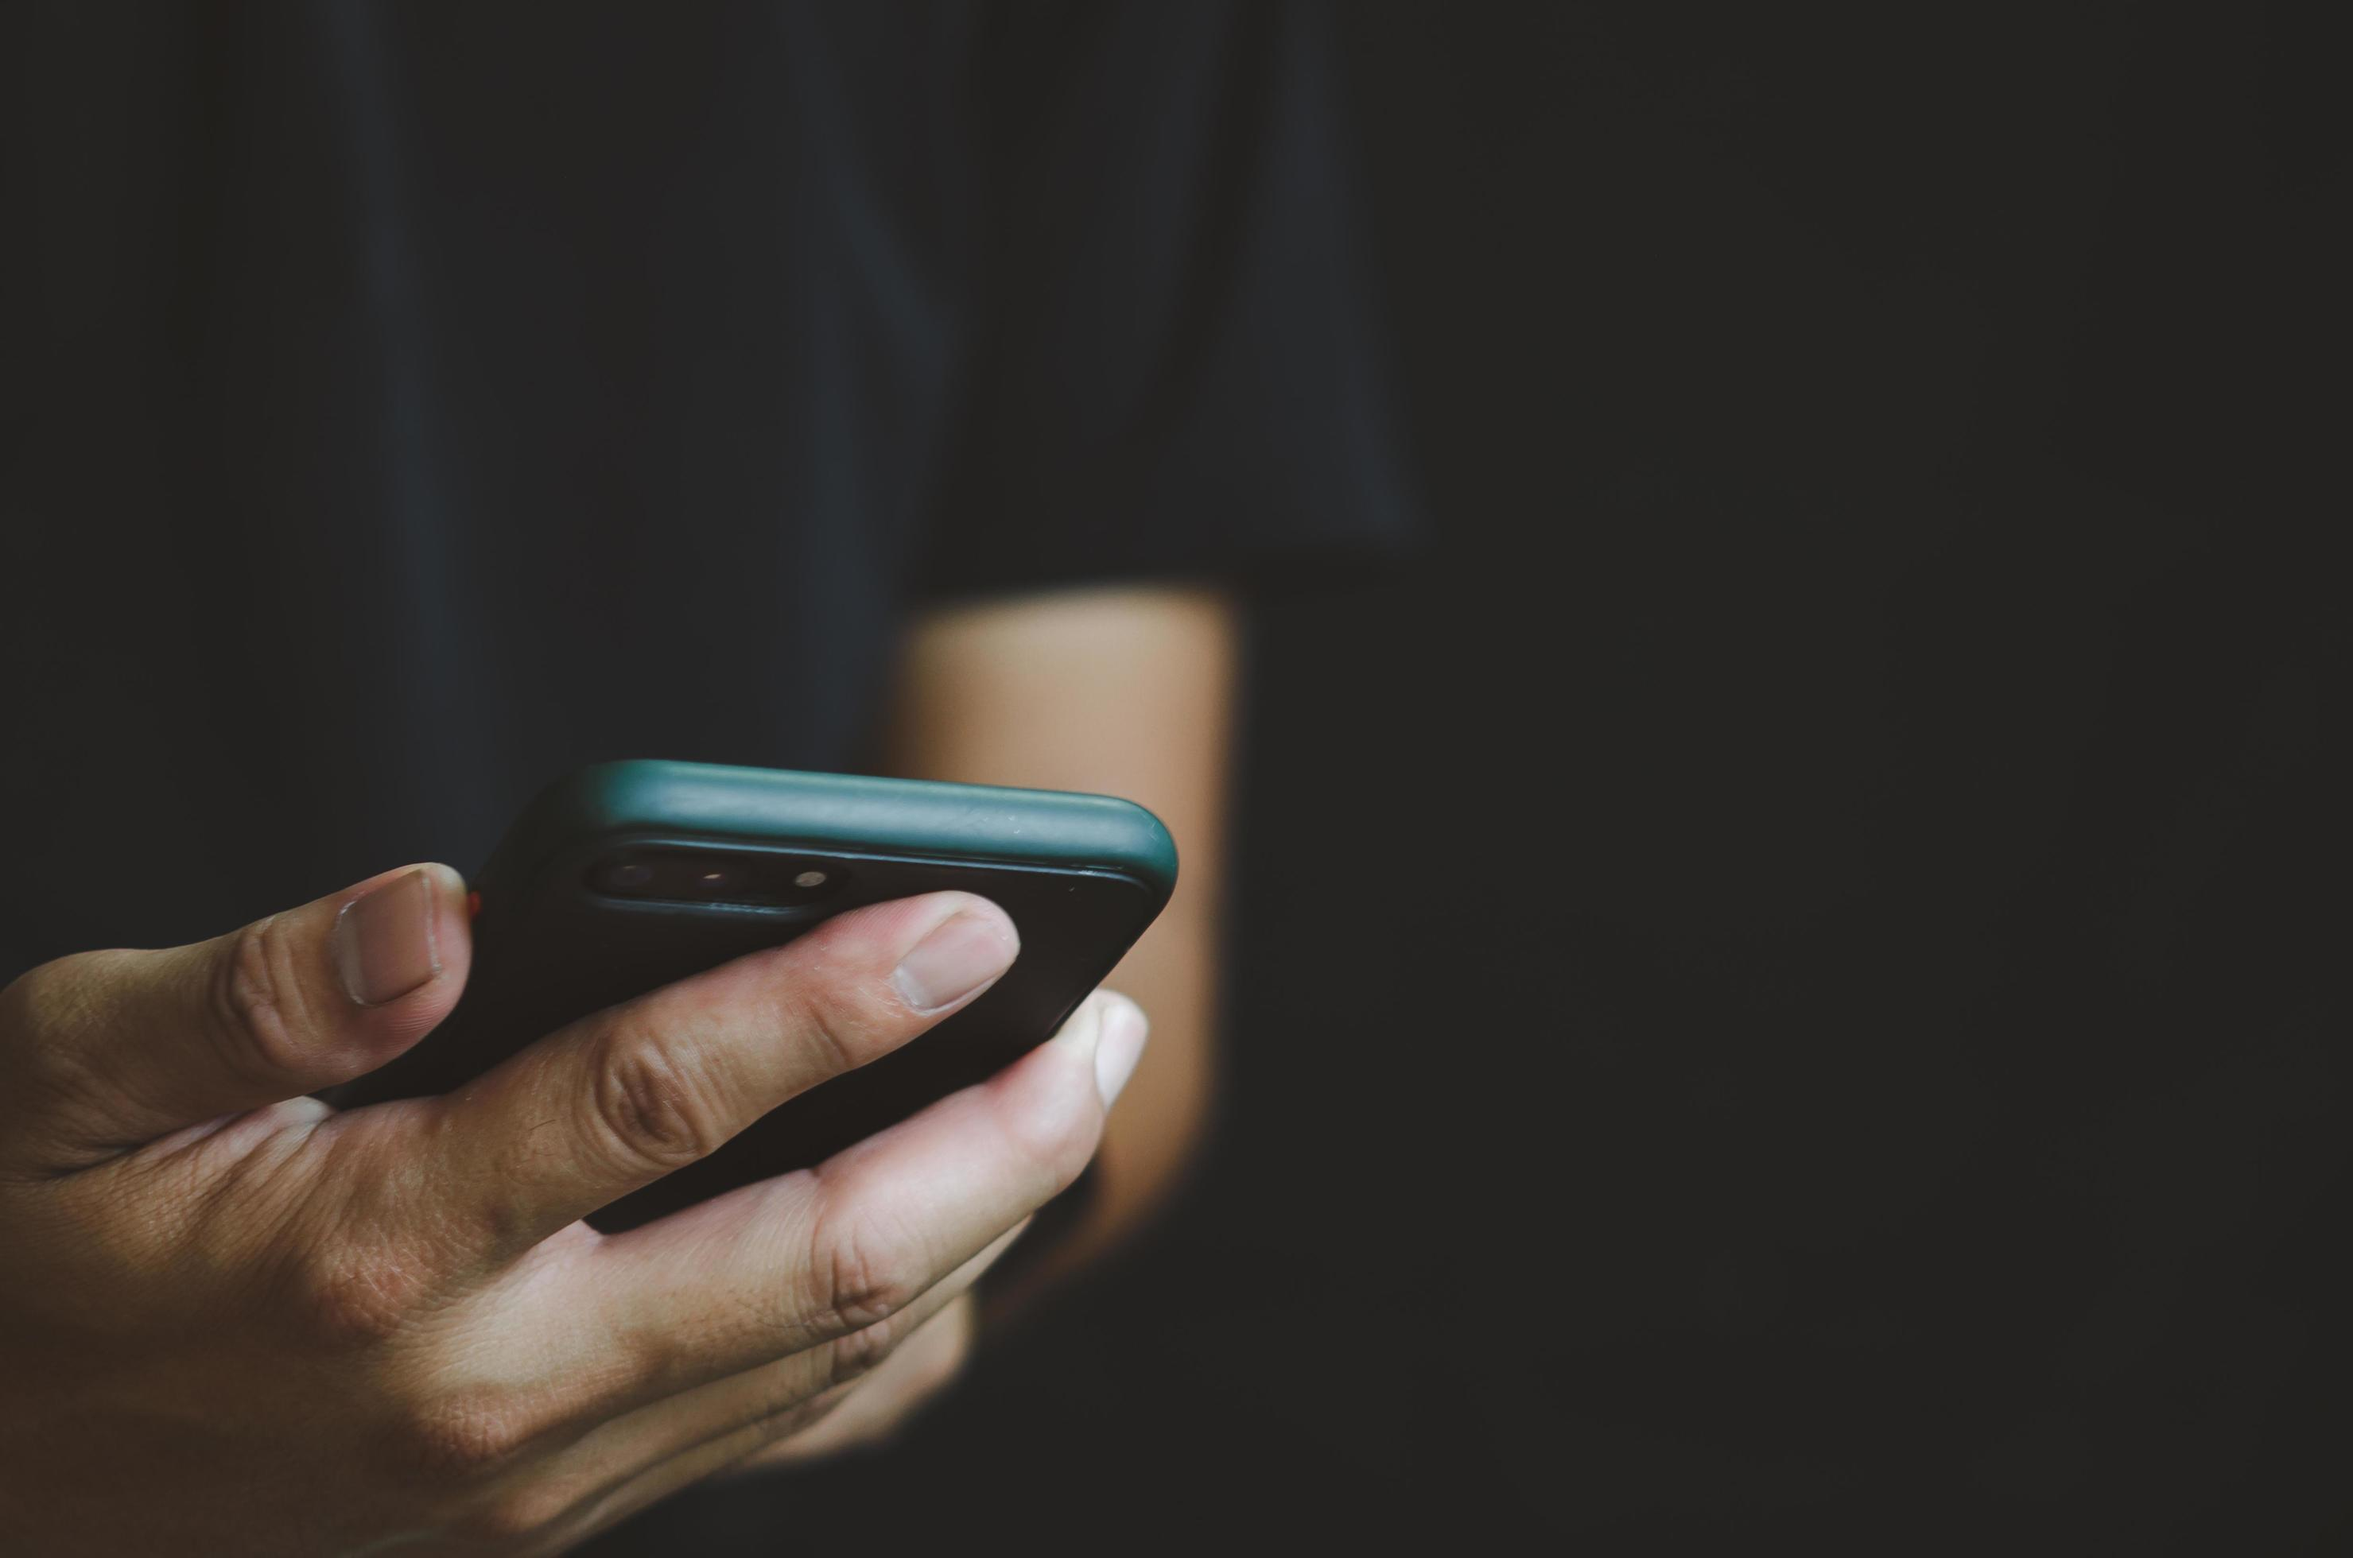
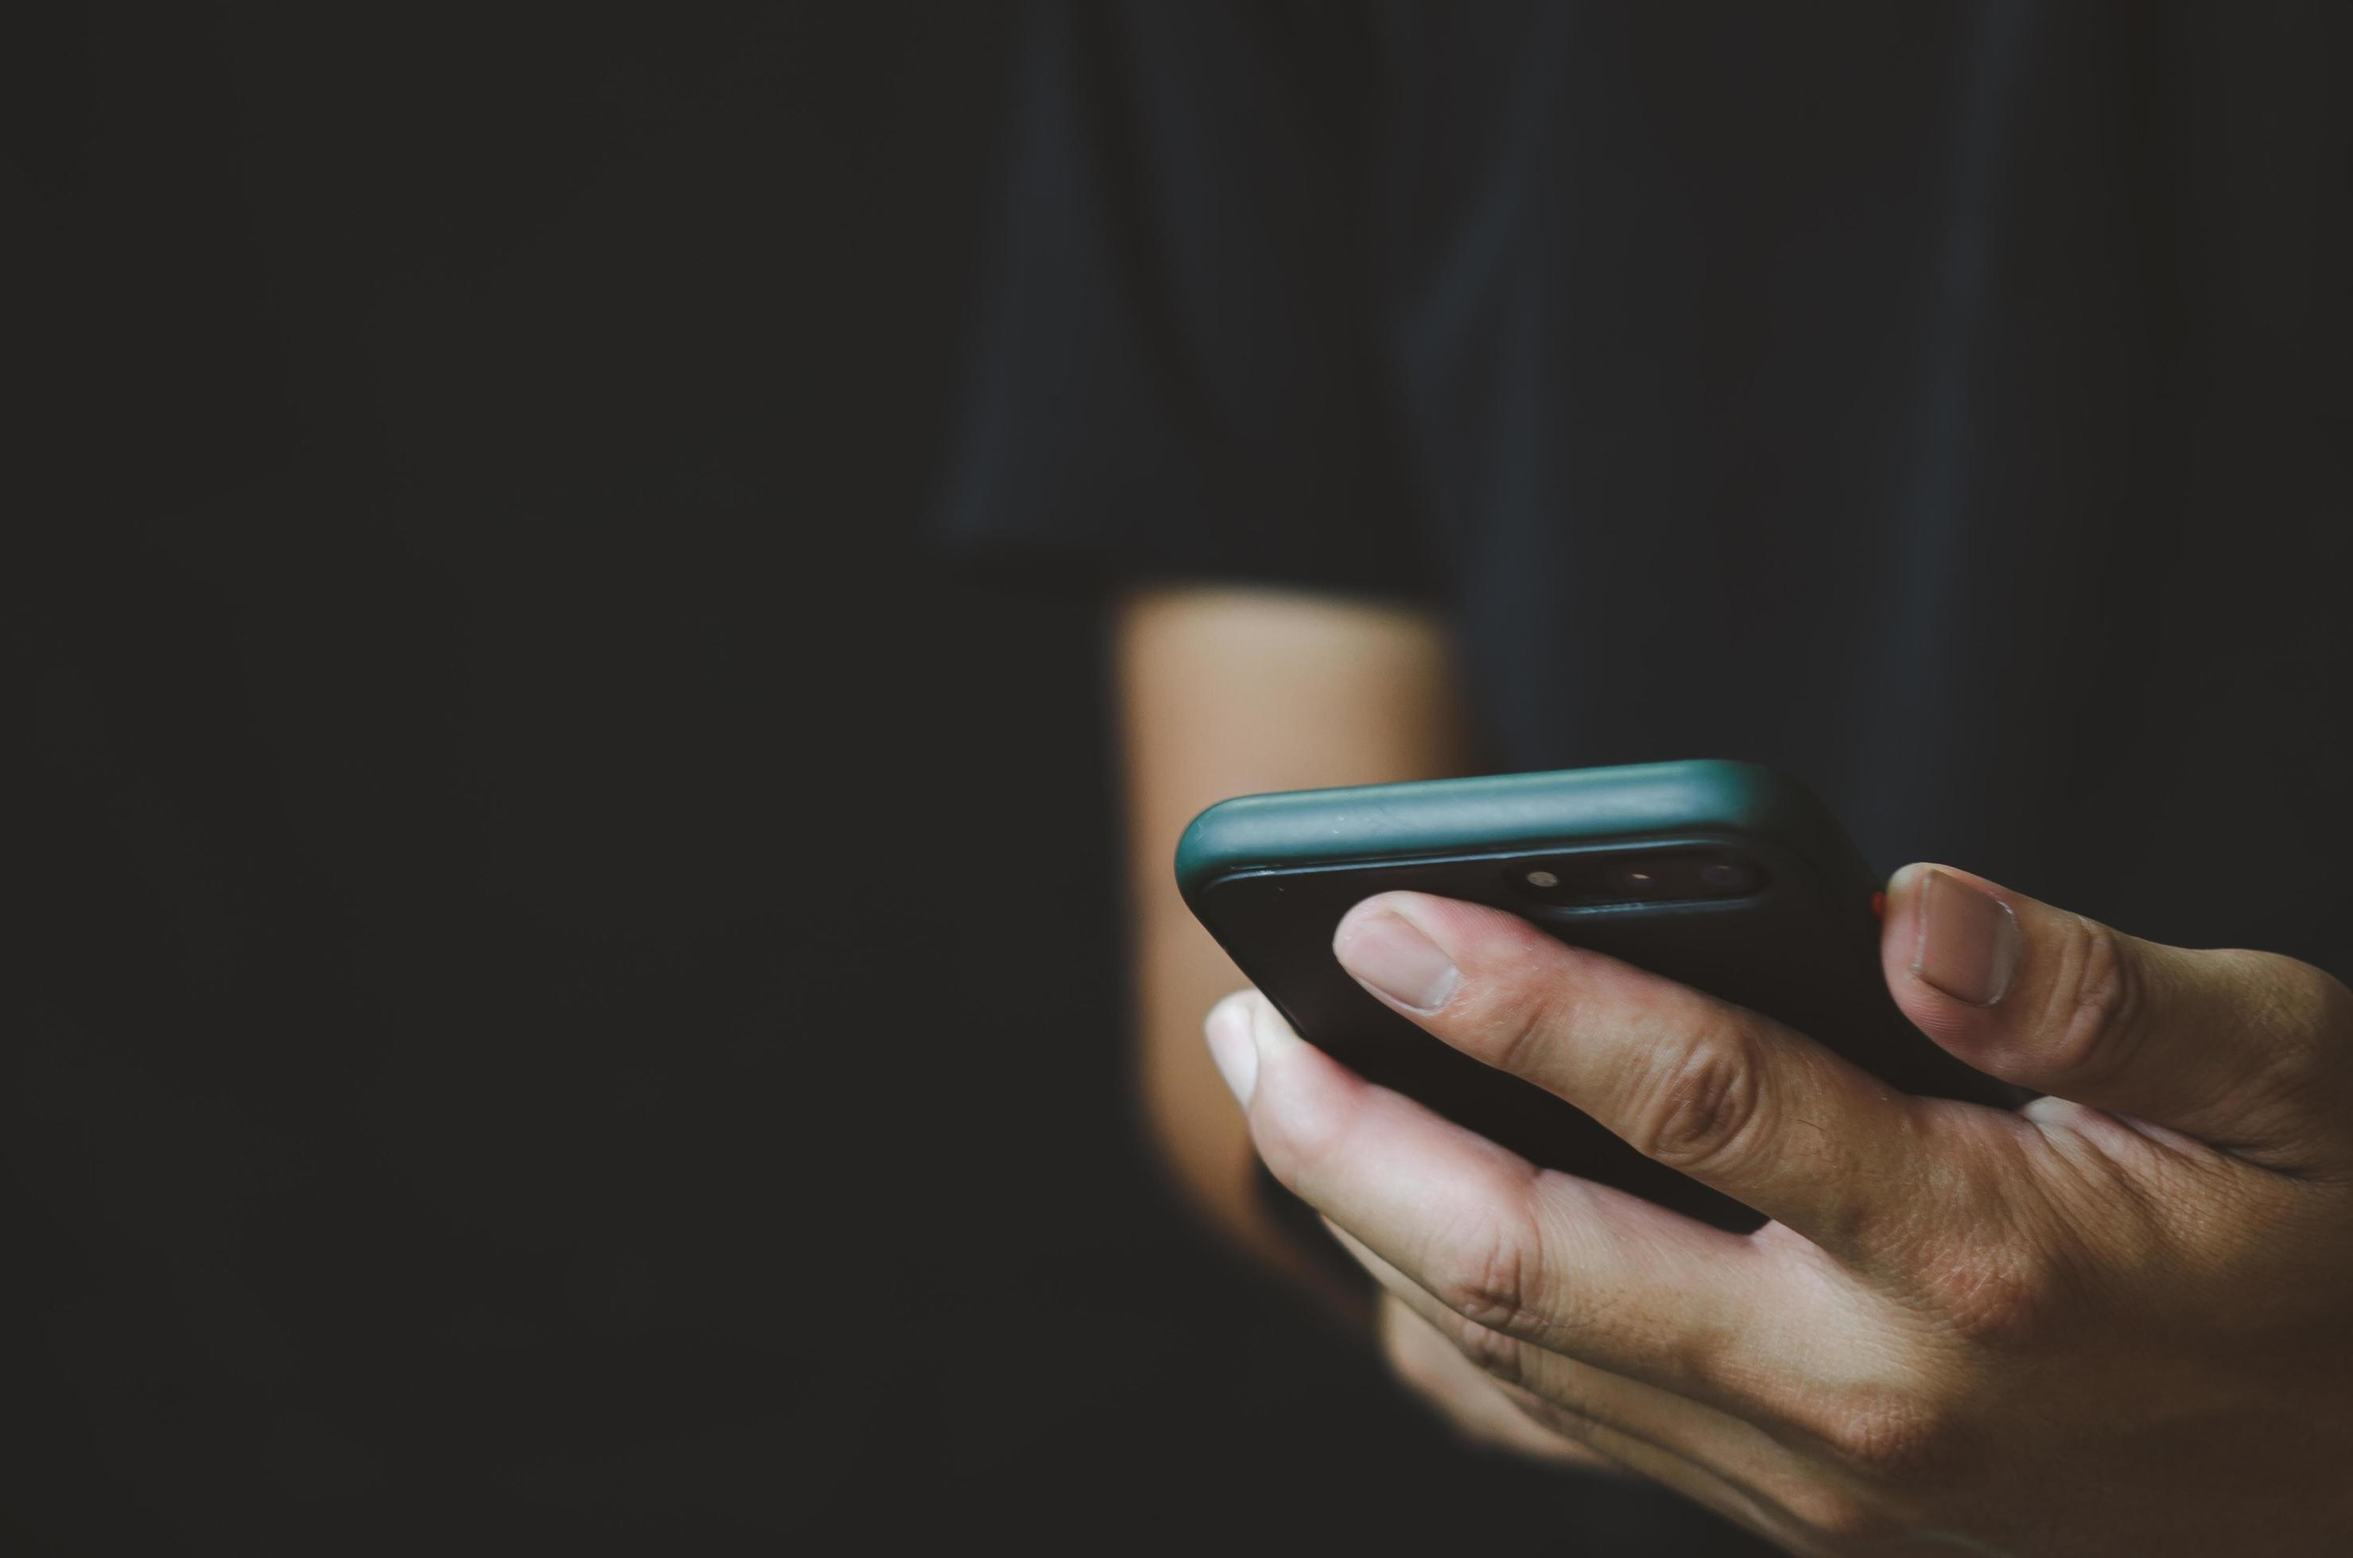
terminei o desafio

diff --git a/ex073(estilo do ex072).css b/ex073(estilo do ex072).css
@@ -1,5 +1,9 @@
 @charset "UTF-8";
-
+@import url('https://fonts.googleapis.com/css2?family=Dancing+Script:wght@400..700&display=swap');
+:root {
+    --fonte1: verdana, Geneva, Tahoma, sans-serif;
+    --fonte2: "Dancing Script", cursive;
+}
 * {
     margin: 0px;
     padding: 0px;
@@ -7,6 +11,7 @@
 html, body {
     min-height: 100vh;
     background-color: white;
+    font-family: var(--fonte1);
 }
 header, footer {
     background-color: black;
@@ -15,6 +20,7 @@ header, footer {
 }
 header > h1 {
     padding-top: 50px;
+    font-size: 5vw;
     font-variant: small-caps;
 }
 header > p {
@@ -29,10 +35,13 @@ header a:hover, footer a:hover {
     text-decoration: underline;
 }
 section {
-    padding-top: 10vh;
-    padding-bottom: 10vh;
+    padding-top: 5vh;
+    padding-bottom: 5vh;
     line-height: 2em;
     padding-left: 30px;
+    font-family: var(--fonte2);
+    font-weight: bolder;
+    font-size: 3.5vw;
 }
 section.normal {
     background-color: white;
@@ -41,10 +50,29 @@ section.normal {
 section.imagem {
     background-color: black;
     color: white;
+    box-shadow: inset 6px 6px 13px 0px rgb(61, 61, 61);
+    background-attachment: fixed;
 }
 section.imagem > p {
-    width: 300px;
-    background-color: rgba(0, 0, 0, 0.671);
+    display: inline-block;
+    padding: 5px;
+    background-color: rgba(0, 0, 0, 0.322);
+    text-shadow: 1px 1px 0px black;
+}
+section#img01 {
+    background-image: url('imagens/DESAFIO CORDEL MODERNO/background001.jpg');
+    background-position: right center;
+    background-size: cover;
+}
+section#img02 {
+    background-image: url('imagens/DESAFIO CORDEL MODERNO/background002.jpg');
+    background-position: right center;
+    background-size: cover;
+}
+section#img03 {
+    background-image: url('imagens/DESAFIO CORDEL MODERNO/background003.jpg');
+    background-position: right center;
+    background-size: cover;
 }
 footer {
     padding: 10px;

diff --git a/ex072-desafio-cordel-moderno.html b/ex072-desafio-cordel-moderno.html
@@ -28,7 +28,7 @@
         </p>
     </section>
 
-    <section class="imagem">
+    <section class="imagem" id="img01">
         <p>
             Não é mais como era antes <br>
             É tudo abreviado <br>
@@ -52,7 +52,7 @@
         </p>
     </section>
 
-    <section class="imagem">
+    <section class="imagem" id="img02">
         <p>
             Pra piorar a liguagem <br>
             O emoticom é um risco <br>
@@ -76,7 +76,7 @@
         </p>
     </section>
 
-    <section class="imagem">
+    <section class="imagem" id="img03">
         <p>
             Agora, escrevo e envio <br>
             Chegando na mesma hora <br>
